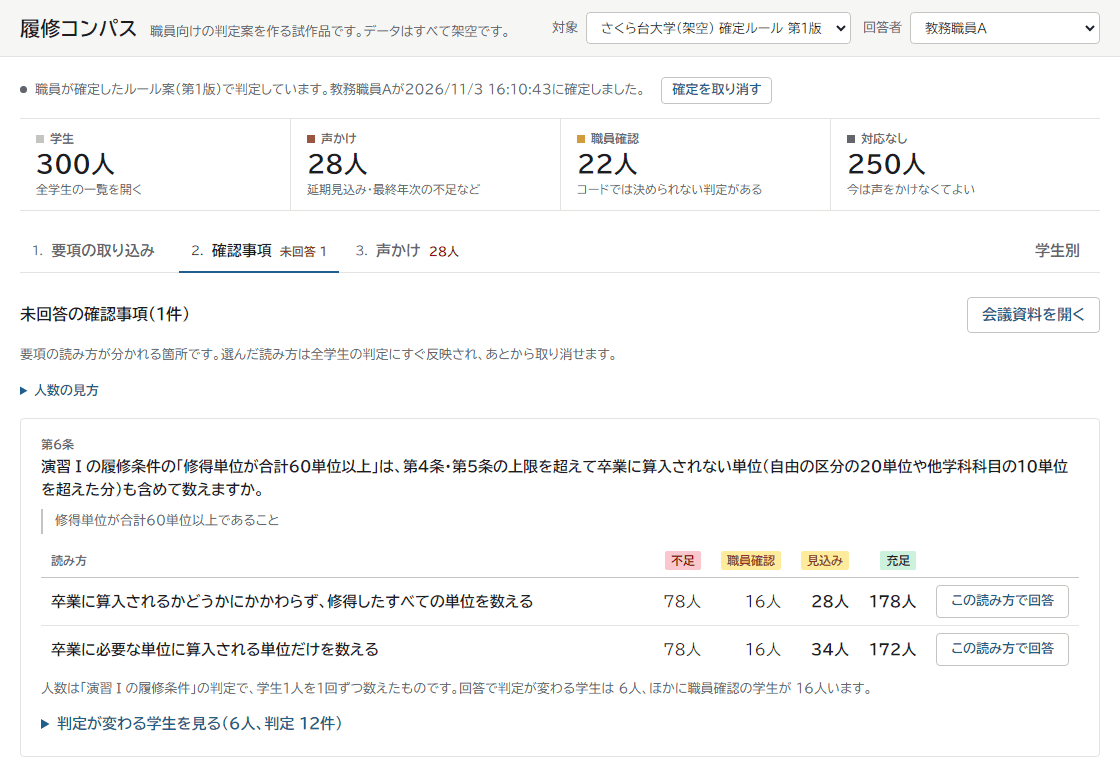
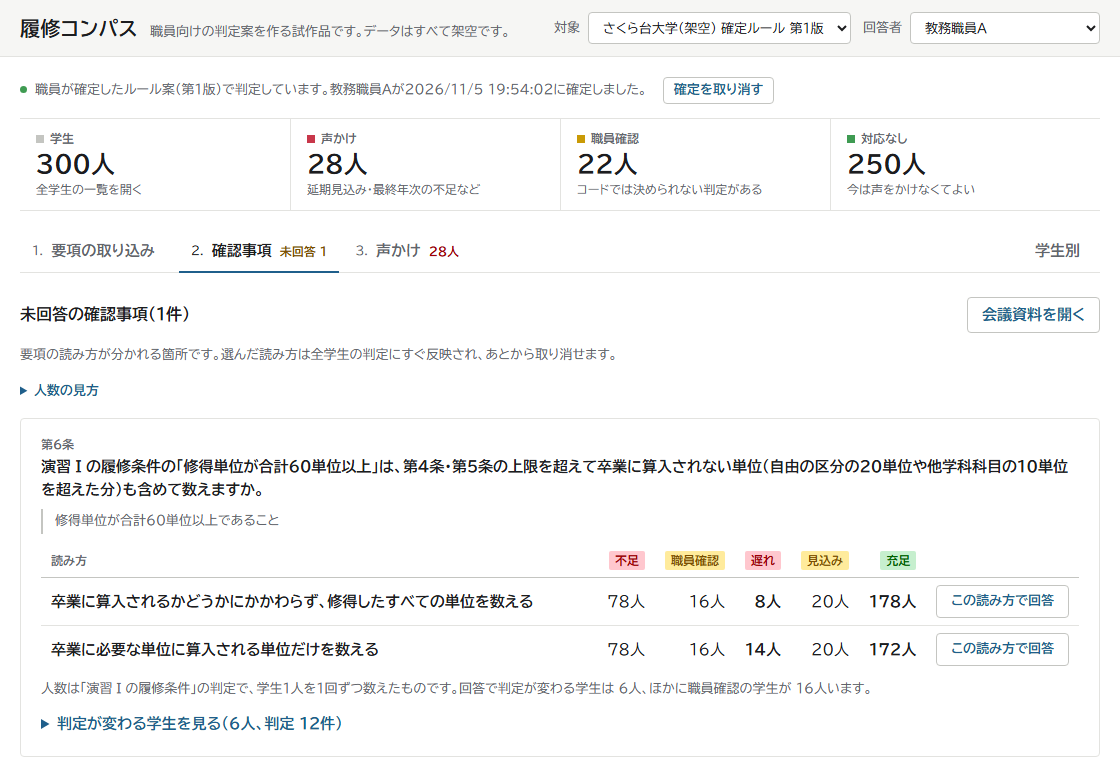
第3回の監査を回し、未確定の履修条件から延期見込みが出る形などの指摘を直す（A3-1 ほか）
- 要確認の履修条件や、差分で表せない候補が掛かる履修条件の仮の値だけで、卒業要件を延期見込みと声かけにしない（A3-1）
- 壊す検査をすり抜けた「見込みの履修条件の科目を案に通す」と、H30 の枝の区分に入らない科目にテストを足す（A3-6）
- Claude の案の検査で、進級先の年次が2年次より前のものと、負の差分の値を止める（A3-7）
- 会議資料の人数の表から0人だけの列を外し、確認事項の画面と同じ列にする（A3-3）
- 回答の直後、新しい判定が届くまで「変わる学生はいません」と出さない（A3-4）
- README の確認事項の画像を今の画面で撮り直し、手順7の押す場所を書く（A3-16、A3-17）
- 評価文書とデータの文書を事実に合わせる（A3-18〜A3-21）
- 作り手の判断に回すものを BACKLOG に書く（H31〜H34）

diff --git a/worker/__tests__/third-audit.test.ts b/worker/__tests__/third-audit.test.ts
@@ -1,0 +1,82 @@
+import { describe, expect, it } from "vitest";
+import { sakuradaiCourses } from "../../data/fictional/sakuradai/courses";
+import { goldRules } from "../../data/fictional/sakuradai/gold-rules";
+import { sakuradaiStudents } from "../../data/fictional/sakuradai/students";
+import { evaluateStudent, type RuleSet, type Student } from "../../engine";
+
+// 第3回の監査の A3-1。未確定の履修条件の仮の値だけから、卒業要件の延期見込みと声かけを出さない。
+// 履修条件が要確認のとき、または差分で表せない候補だけの未回答の曖昧箇所が掛かるときは、
+// 履修条件の中身が決まっていないので、「履修条件がなくても間に合わない」と確かめられた学生だけを延期見込みにする。
+
+const ANSWERED = { "seminar-credit-basis": "countable", "retake-disqualified-scope": "include" };
+
+function graduation(rules: RuleSet, student: Student) {
+  const found = evaluateStudent(rules, sakuradaiCourses, student, ANSWERED).judgments.find((j) => j.kind === "graduation");
+  if (!found) throw new Error(student.id);
+  return found;
+}
+
+function gateOf(rules: RuleSet) {
+  const gate = rules.gates.find((g) => g.id === "gate-seminar");
+  if (!gate) throw new Error("gate-seminar");
+  return gate;
+}
+
+// 履修条件がいちばん緩い値（単位も科目も求めない）でも延期見込みになる学生
+function delayedWithoutGate() {
+  const relaxed = structuredClone(goldRules);
+  Object.assign(gateOf(relaxed), { minCredits: 0, requiredCourses: [] });
+  return new Set(sakuradaiStudents.filter((s) => graduation(relaxed, s).status === "delay_risk").map((s) => s.id));
+}
+
+const delayed = sakuradaiStudents.filter((s) => graduation(goldRules, s).status === "delay_risk");
+
+describe("未確定の履修条件と延期見込み（第3回の監査 A3-1）", () => {
+  it("前提: 正解ルールでは34人が延期見込みで、そのうち12人は演習Ⅰの履修条件の値だけで決まっている", () => {
+    const without = delayedWithoutGate();
+    expect(delayed).toHaveLength(34);
+    expect(delayed.filter((s) => !without.has(s.id)).map((s) => s.id)).toContain("S0095");
+    expect(delayed.filter((s) => !without.has(s.id))).toHaveLength(12);
+  });
+
+  const cases: [string, (rules: RuleSet) => void][] = [
+    ["要確認（needs_review）の履修条件", (rules) => Object.assign(gateOf(rules), { status: "needs_review" })],
+    [
+      "差分で表せない候補だけの未回答の曖昧箇所が掛かる履修条件",
+      (rules) => {
+        rules.ambiguities.push({
+          id: "held",
+          clause: "第6条",
+          sourceQuote: "修得単位が合計60単位以上であること",
+          question: "表せない読み方がありますか。",
+          options: [
+            { id: "a", label: "表せない読み方1", patches: null },
+            { id: "b", label: "表せない読み方2", patches: null },
+          ],
+        });
+        gateOf(rules).ambiguityIds = ["seminar-credit-basis", "held"];
+      },
+    ],
+  ];
+
+  it.each(cases)("%s: 履修条件の値だけで決まる12人は、延期見込みにも声かけにもせず職員確認にする", (_, change) => {
+    const rules = structuredClone(goldRules);
+    change(rules);
+    const without = delayedWithoutGate();
+    for (const student of delayed.filter((s) => !without.has(s.id))) {
+      const judgment = graduation(rules, student);
+      expect([student.id, judgment.status, judgment.needsContact]).toEqual([student.id, "needs_staff", false]);
+    }
+  });
+
+  it.each(cases)("%s: 履修条件がなくても間に合わない22人は、延期見込みのまま", (_, change) => {
+    const rules = structuredClone(goldRules);
+    change(rules);
+    const without = delayedWithoutGate();
+    const rest = delayed.filter((s) => without.has(s.id));
+    expect(rest).toHaveLength(22);
+    for (const student of rest) {
+      expect([student.id, graduation(rules, student).status]).toEqual([student.id, "delay_risk"]);
+    }
+  });
+});

diff --git a/engine/__tests__/validate.test.ts b/engine/__tests__/validate.test.ts
@@ -124,6 +124,24 @@ describe("validateRuleSet", () => {
   });
 });
 
+describe("値の範囲（第3回の監査 A3-7）", () => {
+  it("進級先の年次が2年次より前の進級条件を見つける。0 だと全員が進級済みになる", () => {
+    const promotion = exampleRules.gates.findIndex((gate) => gate.target.kind === "promotion");
+    for (const toYear of [0, 1, 2.5]) {
+      const problems = problemsAfter((rules) => (rules.gates[promotion]!.target = { kind: "promotion", toYear }));
+      expect(problems).toEqual([expect.stringContaining("進級先の年次")]);
+    }
+    expect(problemsAfter((rules) => (rules.gates[promotion]!.target = { kind: "promotion", toYear: 3 }))).toEqual([]);
+  });
+
+  it("差分の値に負の数を入れた選択肢を見つける", () => {
+    const problems = problemsAfter(
+      (rules) => (rules.ambiguities[0]!.options[0]!.patches = [{ ruleId: "load-normal", field: "maxPerTerm", value: -1 }]),
+    );
+    expect(problems).toEqual([expect.stringContaining("load-normal")]);
+  });
+});
+
 describe("resolveRules の項目の検査", () => {
   it("field の書き間違いはエラーにする", () => {
     const rules = structuredClone(exampleRules);
@@ -139,5 +157,15 @@ describe("resolveRules の項目の検査", () => {
       { ruleId: "load-normal", field: "maxPerTerm", value: "24" },
     ];
     expect(() => resolveRules(rules, { "ambiguity-seminar-credits": "include" })).toThrow("型");
+  });
+
+  it("負の数はエラーにする。0 は通す", () => {
+    const withValue = (value: number) => {
+      const rules = structuredClone(exampleRules);
+      rules.ambiguities[0]!.options[0]!.patches = [{ ruleId: "load-normal", field: "maxPerYear", value }];
+      return () => resolveRules(rules, { "ambiguity-seminar-credits": "include" });
+    };
+    expect(withValue(-10)).toThrow("負");
+    expect(withValue(0)).not.toThrow();
   });
 });

diff --git a/src/MeetingSheetView.tsx b/src/MeetingSheetView.tsx
@@ -1,8 +1,5 @@
-import type { JudgmentStatus } from "../shared/api";
 import { countedCaption, type MeetingSheet } from "./meetingSheet";
 import { JudgmentBadge } from "./StatusBadge";
-
-const STATUSES: JudgmentStatus[] = ["delay_risk", "short", "needs_staff", "delayed", "expected", "satisfied"];
 
 type Props = {
   sheet: MeetingSheet;
@@ -54,12 +51,11 @@ export function MeetingSheetView({ sheet, datasetName, onClose }: Props) {
               <thead>
                 <tr>
                   <th>読み方</th>
-                  {item.computable &&
-                    STATUSES.map((status) => (
-                      <th key={status}>
-                        <JudgmentBadge status={status} />
-                      </th>
-                    ))}
+                  {item.statuses.map((status) => (
+                    <th key={status}>
+                      <JudgmentBadge status={status} />
+                    </th>
+                  ))}
                 </tr>
               </thead>
               <tbody>
@@ -69,12 +65,11 @@ export function MeetingSheetView({ sheet, datasetName, onClose }: Props) {
                       {option.label}
                       {!option.reflected && <span className="muted">（判定には反映しない）</span>}
                     </td>
-                    {item.computable &&
-                      STATUSES.map((status) => (
-                        <td key={status} className="nowrap">
-                          {option.counts?.[status] ?? 0}人
-                        </td>
-                      ))}
+                    {item.statuses.map((status) => (
+                      <td key={status} className="nowrap">
+                        {option.counts?.[status] ?? 0}人
+                      </td>
+                    ))}
                   </tr>
                 ))}
               </tbody>

diff --git a/src/meetingSheet.ts b/src/meetingSheet.ts
@@ -11,9 +11,19 @@ export type MeetingSheet = {
     countedRuleNames: string[];
     affected: number;
     staffReview: number;
+    // 表の列にする判定。どの読み方でも0人の判定は入れない
+    statuses: JudgmentStatus[];
     options: { label: string; counts: Partial<Record<JudgmentStatus, number>> | null; reflected: boolean }[];
   }[];
 };
+
+const COUNT_ORDER: JudgmentStatus[] = ["delay_risk", "short", "needs_staff", "delayed", "expected", "satisfied"];
+
+// 人数の表の列。どれかの読み方で人数がある判定だけを、重いものから並べる。確認事項の画面と会議資料で同じ列にする。
+// 表は特定の判定だけを数えるので、0人の列を出すと「その影響はない」と読まれる（第3回の監査 A3-3）
+export function countedStatuses(options: { counts: Partial<Record<JudgmentStatus, number>> | null }[]) {
+  return COUNT_ORDER.filter((status) => options.some((option) => option.counts?.[status]));
+}
 
 // 読み方ごとの人数が何を数えたものかを1文で書く。確認事項の画面と会議資料で同じ文を使う
 export function countedCaption(names: string[]) {
@@ -35,6 +45,7 @@ export function buildMeetingSheet(overview: OverviewResponse): MeetingSheet {
       countedRuleNames: impact.countedRuleNames,
       affected: impact.affectedStudentIds.length,
       staffReview: impact.staffReviewStudentIds.length,
+      statuses: impact.computable ? countedStatuses(impact.options) : [],
       options: impact.options.map(({ label, counts, reflected }) => ({ label, counts, reflected })),
     })),
   };

diff --git a/src/__tests__/answerChanges.test.ts b/src/__tests__/answerChanges.test.ts
@@ -1,0 +1,27 @@
+import { describe, expect, it } from "vitest";
+import { changesAfterAnswer } from "../answerChanges";
+
+const before = { students: [{ id: "S0007", state: "staff_review" as const }, { id: "S0010", state: "clear" as const }] };
+const after = { students: [{ id: "S0007", state: "contact" as const }, { id: "S0010", state: "clear" as const }] };
+
+describe("changesAfterAnswer（回答のあとの「全学生の判定を更新しました」。第3回の監査 A3-4）", () => {
+  it("回答していなければ出さない", () => {
+    expect(changesAfterAnswer(null, before)).toBeNull();
+  });
+
+  it("回答を記録した直後で、新しい判定がまだ届いていなければ出さない（「変わる学生はいません」と出さない）", () => {
+    expect(changesAfterAnswer(before, before)).toBeNull();
+  });
+
+  it("新しい判定を取れなかったときは出さない", () => {
+    expect(changesAfterAnswer(before, null)).toBeNull();
+  });
+
+  it("新しい判定が届いたら、対応が変わった学生を返す", () => {
+    expect(changesAfterAnswer(before, after)).toEqual([{ studentId: "S0007", from: "staff_review", to: "contact" }]);
+  });
+
+  it("新しい判定が届いて誰も変わらなければ、空の一覧を返す", () => {
+    expect(changesAfterAnswer(before, { students: [...before.students] })).toEqual([]);
+  });
+});

diff --git a/src/__tests__/meetingSheet.test.ts b/src/__tests__/meetingSheet.test.ts
@@ -1,6 +1,6 @@
 import { describe, expect, it } from "vitest";
 import type { Impact, OverviewResponse } from "../../shared/api";
-import { buildMeetingSheet, countedCaption } from "../meetingSheet";
+import { buildMeetingSheet, countedCaption, countedStatuses } from "../meetingSheet";
 
 const impact: Impact = {
   ambiguityId: "ambiguity-a",
@@ -64,6 +64,22 @@ describe("buildMeetingSheet（確認事項の会議資料。B31）", () => {
     const sheet = buildMeetingSheet(overview);
     expect(sheet.summary).toEqual(overview.summary);
     expect(sheet.items.map((item) => item.ambiguityId)).toEqual(["ambiguity-a"]);
+  });
+});
+
+describe("countedStatuses（人数の表に出す判定の列。第3回の監査 A3-3）", () => {
+  it("どの読み方でも0人の判定は列にしない。数えていない判定を0人と読ませないため", () => {
+    expect(countedStatuses(impact.options)).toEqual(["short", "satisfied"]);
+    expect(buildMeetingSheet(overview).items[0]?.statuses).toEqual(["short", "satisfied"]);
+  });
+
+  it("どれか1つの読み方で人数があれば列にし、重い判定から並べる", () => {
+    const options = [
+      { counts: { satisfied: 4, delayed: 1 } },
+      { counts: { satisfied: 3, delay_risk: 2 } },
+      { counts: null },
+    ];
+    expect(countedStatuses(options)).toEqual(["delay_risk", "delayed", "satisfied"]);
   });
 });
 

diff --git a/src/QuestionsPanel.tsx b/src/QuestionsPanel.tsx
@@ -7,11 +7,9 @@ import type {
   OverviewResponse,
   PreviousAnswer,
 } from "../shared/api";
-import { buildMeetingSheet, countedCaption } from "./meetingSheet";
+import { buildMeetingSheet, countedCaption, countedStatuses } from "./meetingSheet";
 import { MeetingSheetView } from "./MeetingSheetView";
 import { JudgmentBadge, judgmentLabel } from "./StatusBadge";
-
-const COUNT_ORDER: JudgmentStatus[] = ["delay_risk", "short", "needs_staff", "delayed", "expected", "satisfied"];
 
 type Props = {
   overview: OverviewResponse;
@@ -33,9 +31,7 @@ type ImpactProps = {
 
 // 読み方を行、判定を列にした表で人数を見比べる。読み方によって人数が違う欄を太字にする
 export function ImpactCounts({ impact, chosen, onAnswer }: ImpactProps) {
-  const statuses = impact.computable
-    ? COUNT_ORDER.filter((status) => impact.options.some((option) => option.counts?.[status]))
-    : [];
+  const statuses = impact.computable ? countedStatuses(impact.options) : [];
   const differs = (status: JudgmentStatus) =>
     new Set(impact.options.map((option) => option.counts?.[status] ?? 0)).size > 1;
   return (

diff --git a/engine/__tests__/uncategorized.test.ts b/engine/__tests__/uncategorized.test.ts
@@ -26,6 +26,15 @@ describe("どの区分にも入らない科目（A1-26）", () => {
     expect(graduation(passed(["基礎必修1"])).status).toBe("short");
   });
 
+  it("卒業要件自身の曖昧箇所が未回答で、確定の区分に不足があっても、区分に入らない科目を修得していれば職員確認のまま（H30。第3回の監査 A3-6）", () => {
+    const rules = structuredClone(specRules);
+    rules.graduation.ambiguityIds = ["credit-basis"];
+    const of = (names: string[]) =>
+      evaluateStudent(rules, courses, makeStudent({ records: passed(names) }), {}).judgments.find((j) => j.kind === "graduation")!;
+    expect(of(["基礎必修1"]).status).toBe("short");
+    expect(of(["基礎必修1", "区分外の科目"]).status).toBe("needs_staff");
+  });
+
   it("区分に入らない科目を警告として返し、ルールの検査の問題にはしない（確定を止めない）", () => {
     expect(strayCourses(specRules, courses)).toEqual(["区分外の科目"]);
     expect(validateRuleSet(specRules, courses)).toEqual(validateRuleSet(specRules, specCourses));

diff --git a/engine/__tests__/spec.test.ts b/engine/__tests__/spec.test.ts
@@ -191,6 +191,15 @@ describe("演習Ⅰの履修条件", () => {
     expect(codes(entries(["演習Ⅰ"], "通年"), { ...third, studentYear: 4, yearsEnrolled: 4 })).toEqual([]);
   });
 
+  it("判定の年次に58単位で、履修中の2単位を修得すれば満たす学生は「見込み」。修得が決まるまで、演習Ⅰを入れた案は検査に通さない（第3回の監査 A3-6）", () => {
+    const second = makeStudent({
+      studentYear: 2,
+      records: [...passed(SIXTY.slice(0, -1), 1), ...enrolled(SIXTY.slice(-1), 2, "後期")],
+    });
+    expect(judgment(second, "gate-seminar")).toMatchObject({ status: "expected", actual: 58 });
+    expect(codes(entries(["演習Ⅰ"], "通年"), second)).toContain("SEMINAR_LOCKED");
+  });
+
   it("T27 修得60単位のうち他学科12単位で、卒業に数える単位なら58単位でゼミ履修不可", () => {
     const student = seminarReady(SWING);
     expect(SWING.length * 2).toBe(60);

diff --git a/src/App.tsx b/src/App.tsx
@@ -8,7 +8,7 @@ import {
   type PreviousAnswer,
   type Respondent,
 } from "../shared/api";
-import { diffStudentStates } from "../engine/stateChanges";
+import { changesAfterAnswer } from "./answerChanges";
 import { fetchAnswerRecords, fetchDatasets, fetchOverview, saveAnswer, withdrawProposal } from "./api";
 import { ChangesPanel } from "./ChangesPanel";
 import { ExtractionPanel } from "./ExtractionPanel";
@@ -71,10 +71,7 @@ export function App() {
     () => Object.fromEntries((records ?? []).map((r) => [r.ambiguityId, r.optionId])),
     [records],
   );
-  const changes = useMemo(
-    () => (previous && overview ? diffStudentStates(previous.students, overview.students) : null),
-    [previous, overview],
-  );
+  const changes = useMemo(() => changesAfterAnswer(previous, overview), [previous, overview]);
 
   useEffect(() => {
     fetchDatasets()

diff --git a/src/answerChanges.ts b/src/answerChanges.ts
@@ -1,0 +1,11 @@
+import { diffStudentStates, type StateChange, type StudentState } from "../engine/stateChanges";
+
+type Snapshot = { students: { id: string; state: StudentState }[] };
+
+// 回答の前後で、職員の対応が変わった学生。
+// 回答を記録してから新しい判定が届くまでは、手元の一覧がまだ回答の前のものなので比べない（null）。
+// 比べると、判定が届くまでの間「変わる学生はいません」と出てしまう（第3回の監査 A3-4）
+export function changesAfterAnswer(before: Snapshot | null, current: Snapshot | null): StateChange[] | null {
+  if (!before || !current || before === current) return null;
+  return diffStudentStates(before.students, current.students);
+}

diff --git a/engine/evaluate.ts b/engine/evaluate.ts
@@ -352,7 +352,9 @@ function gateStartTerm(gate: Gate, context: EvaluationContext, pessimistic: bool
     if (!variant.retryAfterMet) return Number.POSITIVE_INFINITY;
     return yearStart(student.studentYear + (missed ? 2 : 1));
   });
-  if (!pessimistic) return Math.min(...starts);
+  // 要確認の条件や、差分で表せない候補がある条件は、中身が決まっていない。今の値を読み方の端として使わず、
+  // 楽観側は「条件がない」、悲観側は「履修できない」で計算する（第3回の監査 A3-1）
+  if (!pessimistic) return complete ? Math.min(...starts) : 0;
   return complete ? Math.max(...starts) : Number.POSITIVE_INFINITY;
 }
 
